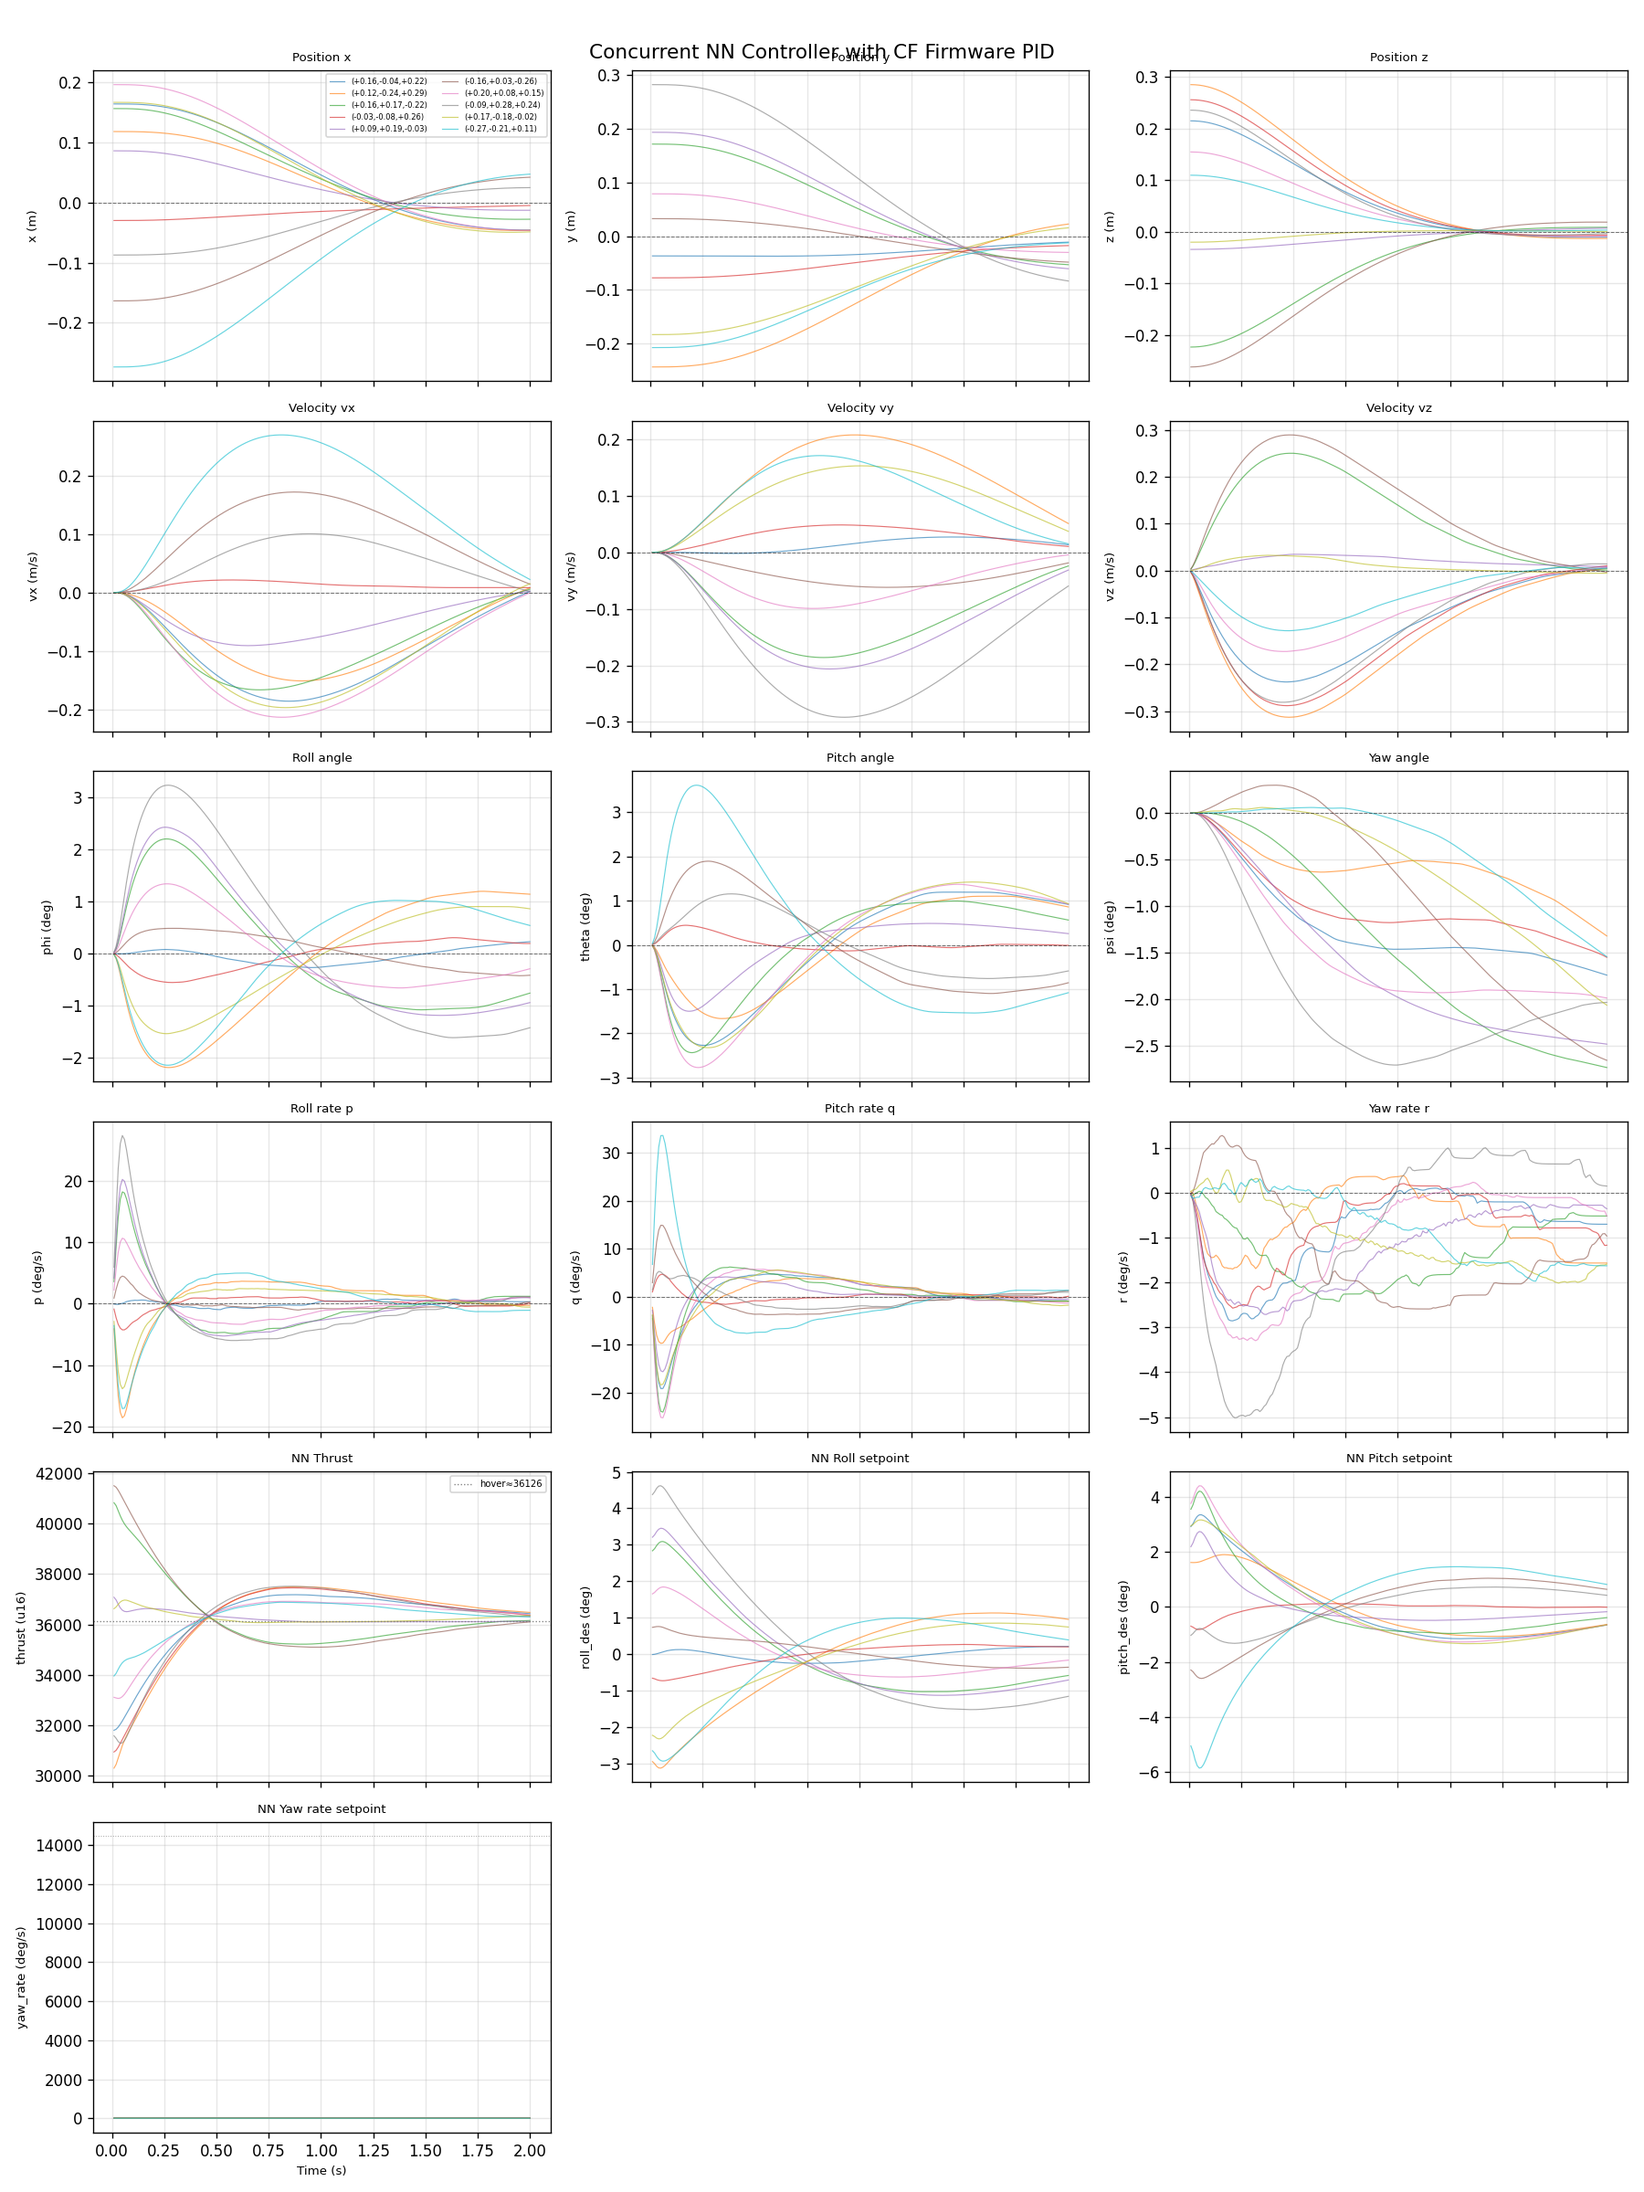
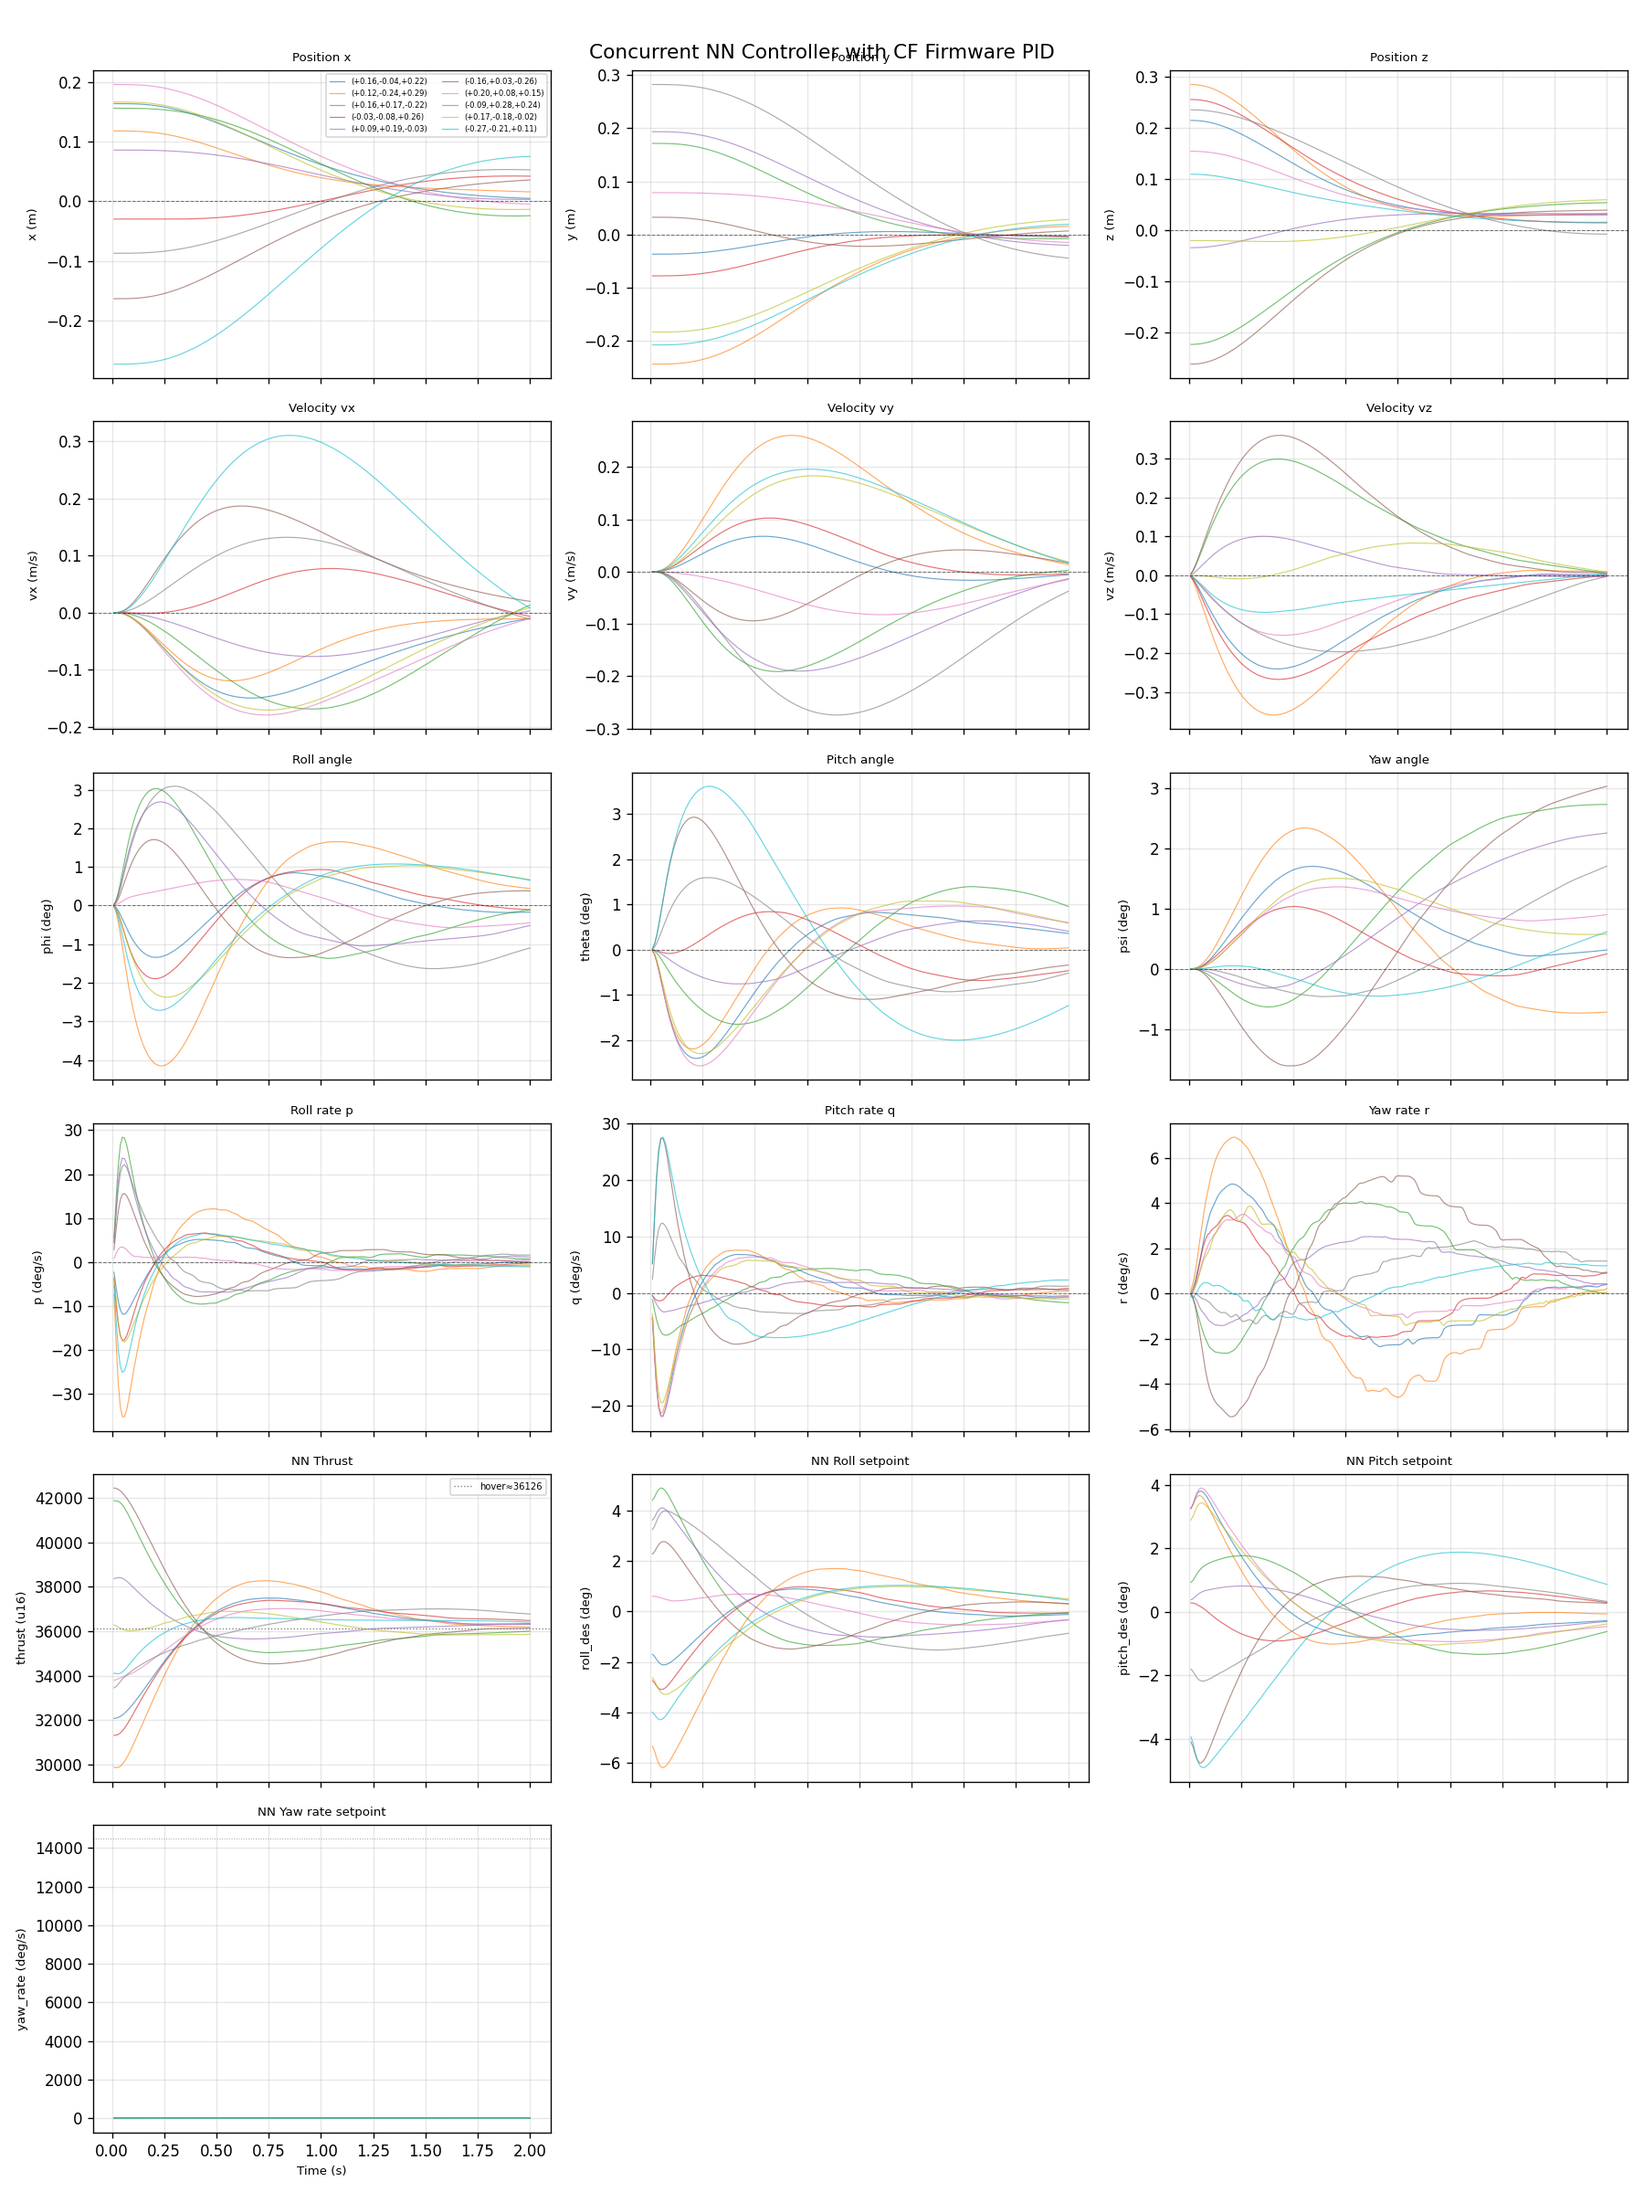
implemented some noise on the training and improved a lot on the real drone

diff --git a/training_regulation_simu_and_real/train_nn_cf_pid.py b/training_regulation_simu_and_real/train_nn_cf_pid.py
@@ -106,6 +106,18 @@ X_SCALE = np.array([
 
 POS_SCALE = 1.0  # for relative targets [m]
 
+# Observation noise std for sim-to-real domain randomization.
+# The NN sees state + noise; dynamics evolve on the true state.
+# Units: positions [m], velocities [m/s], angles [rad], rates [rad/s].
+OBS_NOISE_STD = torch.tensor([
+    0.01,  0.05,                              # x, vx
+    0.01,  0.05,                              # y, vy
+    0.01,  0.05,                              # z, vz
+    math.radians(2),  math.radians(10),       # phi, p
+    math.radians(2),  math.radians(10),       # theta, q
+    math.radians(2),  math.radians(10),       # psi, r
+], dtype=torch.float32)
+
 # ---- Cost weights ----
 Q_DIAG = np.array([
     1.0, 1.0, 1.0, 1.0, 1.0, 1.0,                  # pos & vel (1/max^2, max=1)
@@ -516,19 +528,20 @@ def compute_relative_targets(state, T, target_pos=None):
     return rel
 
 
-def rollout(policy, x0, n_chunks, tau_div=None, log_extra=False):
+def rollout(policy, x0, n_chunks, tau_div=None, log_extra=False, obs_noise_std=None):
     """Full rollout: n_chunks * T NN steps, each = 5 PID steps.
 
     Args:
-        log_extra: if True, also return A (NN actions) and R (motor RPMs).
-                   Keep False during training to avoid memory overhead.
+        log_extra:      if True, also return A (NN actions) and R (motor RPMs).
+        obs_noise_std:  (12,) tensor of per-channel noise std, or None.
+                        When set, the NN receives state + Gaussian noise at each
+                        chunk query while dynamics evolve on the true state.
+                        This is sim-to-real domain randomization.
 
     Returns:
         X : (B, n_chunks*T, 12) state trajectory at 100 Hz.
-        A : (B, n_chunks*T, 4)  NN actions [thrust_u16, roll°, pitch°, yaw_rate°/s]
-            — only when log_extra=True
-        R : (B, n_chunks*T, 4)  motor RPMs [M1..M4]
-            — only when log_extra=True
+        A : (B, n_chunks*T, 4)  NN actions — only when log_extra=True
+        R : (B, n_chunks*T, 4)  motor RPMs  — only when log_extra=True
     """
     T = policy.T
     B = x0.shape[0]
@@ -545,11 +558,14 @@ def rollout(policy, x0, n_chunks, tau_div=None, log_extra=False):
     step_idx = 0
 
     for chunk in range(n_chunks):
-        # Compute relative targets from current position
-        targets_rel = compute_relative_targets(state, T)
+        # Noisy observation: NN sees state + noise, dynamics use true state
+        if obs_noise_std is not None:
+            state_obs = state + torch.randn_like(state) * obs_noise_std
+        else:
+            state_obs = state
 
-        # Query NN once for the entire chunk
-        actions = policy(state, targets_rel)   # (B, T, 4)
+        targets_rel = compute_relative_targets(state_obs, T)
+        actions = policy(state_obs, targets_rel)   # (B, T, 4)
 
         for t in range(T):
             nn_action = actions[:, t, :]
@@ -638,7 +654,7 @@ class GracefulKiller:
 
 def train(epochs=500, lr=1e-2, hidden=128, t_chunk=0.01, t_sim=2.0,
           half_side=0.3, terminal_weight=10.0,
-          tau_start=0.5, tau_end=2.0, device="cpu"):
+          tau_start=0.5, tau_end=2.0, obs_noise_scale=1.0, device="cpu"):
     """Train the concurrent NN controller with curriculum learning."""
 
     killer = GracefulKiller()
@@ -655,6 +671,15 @@ def train(epochs=500, lr=1e-2, hidden=128, t_chunk=0.01, t_sim=2.0,
     policy = ConcurrentPolicyMLP(T=T, hidden=hidden).to(device)
     opt = torch.optim.Adam(policy.parameters(), lr=lr)
     scheduler = torch.optim.lr_scheduler.CosineAnnealingLR(opt, T_max=epochs)
+
+    obs_noise = (OBS_NOISE_STD * obs_noise_scale).to(device) if obs_noise_scale > 0 else None
+    if obs_noise is not None:
+        print(f"[Config] Obs noise scale={obs_noise_scale}  "
+              f"gyro_std={math.degrees(obs_noise[7].item()):.1f}°/s  "
+              f"vel_std={obs_noise[1].item():.3f}m/s  "
+              f"att_std={math.degrees(obs_noise[6].item()):.1f}°")
+    else:
+        print("[Config] Obs noise disabled")
 
     cube_pts = generate_cube_points(half_side)
     x0 = make_x0_batch(cube_pts, device=device)
@@ -689,7 +714,7 @@ def train(epochs=500, lr=1e-2, hidden=128, t_chunk=0.01, t_sim=2.0,
         progress = ep / max(epochs - 1, 1)
         tau_div = tau_start + (tau_end - tau_start) * progress
 
-        X = rollout(policy, x0, n_chunks, tau_div=tau_div)
+        X = rollout(policy, x0, n_chunks, tau_div=tau_div, obs_noise_std=obs_noise)
         loss = trajectory_cost(X, terminal_weight)
 
         opt.zero_grad()
@@ -897,6 +922,8 @@ if __name__ == "__main__":
                         help="Curriculum: initial divergence threshold [m]")
     parser.add_argument("--tau_end", type=float, default=2.0,
                         help="Curriculum: final divergence threshold [m]")
+    parser.add_argument("--obs_noise_scale", type=float, default=1.0,
+                        help="Scale factor for observation noise (0=off, 1=default, 2=double)")
     parser.add_argument("--tag", type=str, default="")
     args = parser.parse_args()
 
@@ -910,6 +937,7 @@ if __name__ == "__main__":
         t_chunk=args.t_chunk, t_sim=args.t_sim,
         half_side=args.half_side, terminal_weight=10.0,
         tau_start=args.tau_start, tau_end=args.tau_end,
+        obs_noise_scale=args.obs_noise_scale,
         device=device)
 
     # Evaluate on random test points
